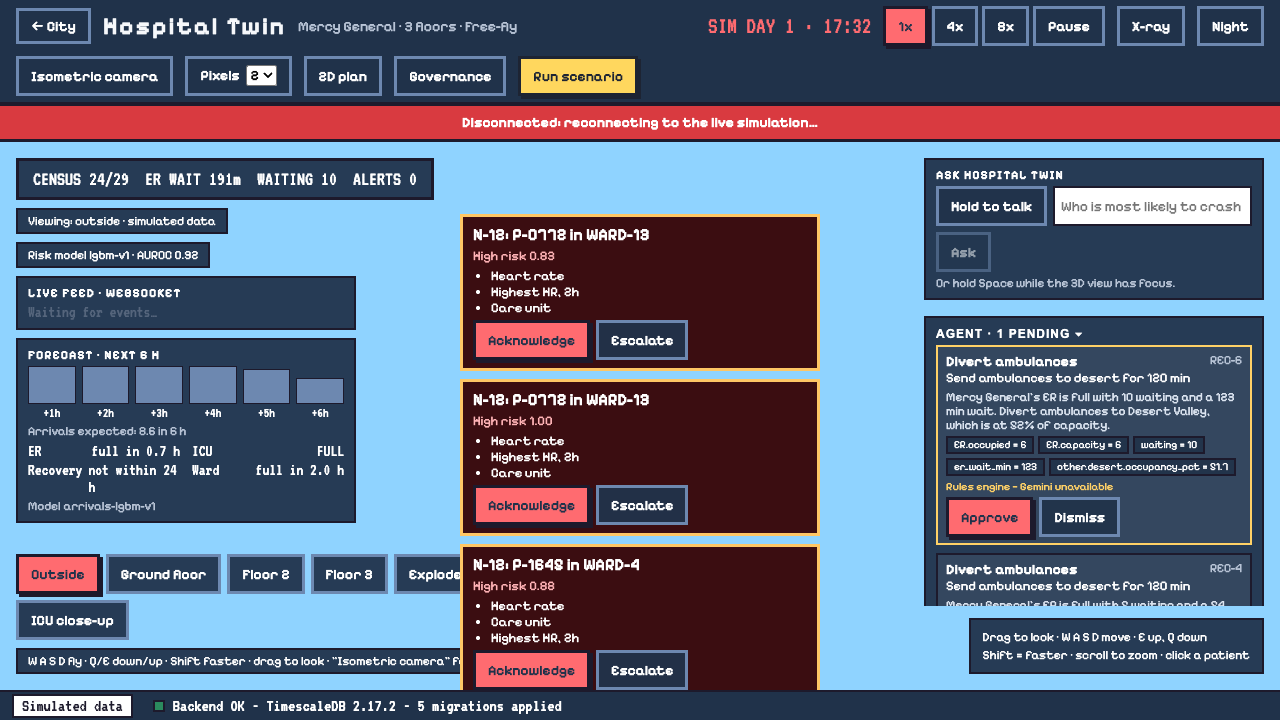
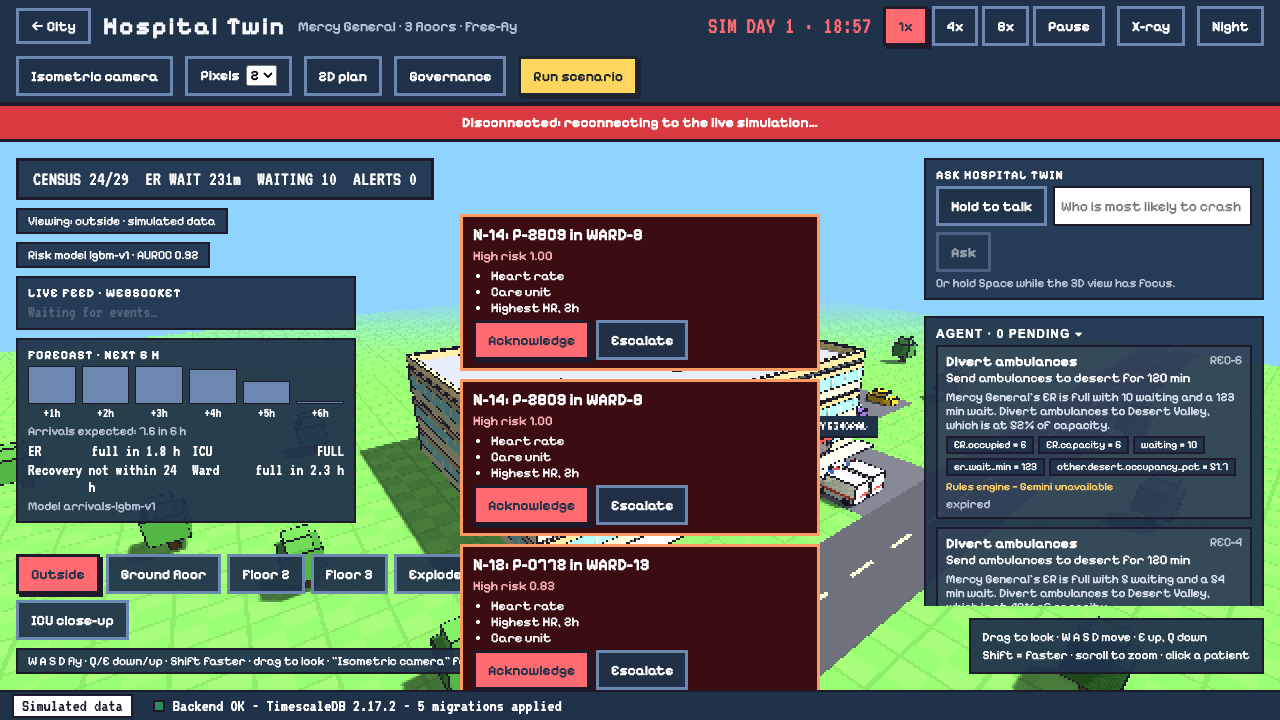
e2e: pick a patient no HUD panel covers; a pending nurse alert is ringed too

Changed region(s): [[0.0, 0.3972, 1.0, 0.9778], [0.375, 0.275, 0.625, 0.3667], [0.6562, 0.0306, 0.6875, 0.0611]]

diff --git a/frontend/tests/nurses.test.tsx b/frontend/tests/nurses.test.tsx
@@ -106,10 +106,20 @@ function within(testId: string, name: string): HTMLElement {
   return button;
 }
 
+function inspectorFetch(page: () => Response): ReturnType<typeof vi.fn> {
+  return vi.fn().mockImplementation((url: string) => {
+    if (url.includes('page-nurse')) return Promise.resolve(page());
+    if (url.includes('/vitals') || url.includes('/risk')) return Promise.resolve(new Response(JSON.stringify({ points: [] })));
+    return Promise.resolve(
+      new Response(JSON.stringify({ id: 'P-1', fhir_id: 'Patient/abc', age: 67, sex: 'male', conditions: ['A'], comorbidity_count: 1, hospital_id: 'mercy', location: null, encounter: null, vitals: null, risk: null })),
+    );
+  });
+}
+
 describe('paging from the inspector', () => {
   const patient = loadSnapshot().entities.find((e) => e.kind === 'patient' && e.location.bed) as Entity;
   it('shows the responsible nurse and pages them', async () => {
-    const f = vi.fn().mockImplementation((url: string) => Promise.resolve(new Response(JSON.stringify(url.includes('page-nurse') ? alert({ reason: 'paged' }) : { points: [] }))));
+    const f = inspectorFetch(() => new Response(JSON.stringify(alert({ reason: 'paged' }))));
     vi.stubGlobal('fetch', f);
     render(<Inspector entity={{ ...patient, nurse_id: 'N-14' }} onFly={vi.fn()} />);
     expect(screen.getByTestId('inspector-nurse').textContent).toContain('Nurse N-14');
@@ -117,7 +127,7 @@ describe('paging from the inspector', () => {
     await waitFor(() => { expect(f.mock.calls.some((c) => String(c[0]) === `/api/patients/${patient.id}/page-nurse` && (c[1] as RequestInit).method === 'POST')).toBe(true); });
   });
   it('has no page button without an assigned nurse, and reports a refusal', async () => {
-    vi.stubGlobal('fetch', vi.fn().mockImplementation((url: string) => Promise.resolve(url.includes('page-nurse') ? new Response(JSON.stringify({ detail: 'No nurse is on duty in ICU' }), { status: 409 }) : new Response(JSON.stringify({ points: [] })))));
+    vi.stubGlobal('fetch', inspectorFetch(() => new Response(JSON.stringify({ detail: 'No nurse is on duty in ICU' }), { status: 409 })));
     render(<Inspector entity={{ ...patient, nurse_id: null }} onFly={vi.fn()} />);
     expect(screen.queryByTestId('page-nurse')).toBeNull();
     cleanup();

diff --git a/frontend/e2e/live.spec.ts b/frontend/e2e/live.spec.ts
@@ -104,14 +104,27 @@ test('5. clicking a patient in a bed opens the inspector with the same id as the
   const simNow = Date.parse(api.sim_time);
   const inBed = api.entities.filter((e) => e.kind === 'patient' && e.location.bed && !e.move && Date.parse(api.sim_time) >= simNow);
   expect(inBed.length).toBeGreaterThan(3);
-  const target = inBed.find((e) => e.location.bed === 'ICU-3') ?? inBed.find((e) => e.location.room === 'ICU') ?? inBed[0]!;
-  const preset = { 0: 'Ground floor', 1: 'Floor 2', 2: 'Floor 3' }[target.location.floor ?? 0] ?? 'Outside';
+  // ICU-3 first, then the other ICU beds, then any bed on that floor: the first one that no HUD panel is drawn over.
+  const ordered = [inBed.find((e) => e.location.bed === 'ICU-3'), ...inBed.filter((e) => e.location.room === 'ICU'), ...inBed].filter((e): e is (typeof inBed)[number] => e !== undefined);
+  const floor = ordered[0]?.location.floor ?? 0;
+  const preset = { 0: 'Ground floor', 1: 'Floor 2', 2: 'Floor 3' }[floor] ?? 'Outside';
   await page.getByRole('button', { name: preset }).click();
   await expect.poll(() => debug(page, (d) => d.view().floorY.length), { timeout: 5000 }).toBe(3);
   await page.waitForTimeout(1500);
-  const point = await page.evaluate((id) => (window as unknown as { __TWIN_DEBUG__: TwinDebug }).__TWIN_DEBUG__.screenPoint(id), target.id);
-  expect(point).not.toBeNull();
   const box = (await page.getByTestId('scene').boundingBox())!;
+  let target = ordered[0]!;
+  let point: { x: number; y: number } | null = null;
+  for (const c of ordered.filter((e) => e.location.floor === floor)) {
+    const p = await page.evaluate((id) => (window as unknown as { __TWIN_DEBUG__: TwinDebug }).__TWIN_DEBUG__.screenPoint(id), c.id);
+    if (!p) continue;
+    const free = await page.evaluate(([x, y]) => document.elementFromPoint(x ?? 0, y ?? 0)?.getAttribute('data-testid') === 'scene', [box.x + p.x, box.y + p.y]);
+    if (free) {
+      target = c;
+      point = p;
+      break;
+    }
+  }
+  expect(point, 'a patient that no HUD panel covers').not.toBeNull();
   await page.mouse.click(box.x + point!.x, box.y + point!.y);
   await expect(page.getByTestId('inspector-id')).toHaveText(target.id);
   expect(await debug(page, (d) => d.selected())).toBe(target.id);

diff --git a/frontend/e2e/voice.spec.ts b/frontend/e2e/voice.spec.ts
@@ -66,15 +66,15 @@ test('11. a typed question highlights the highest-risk ICU patient', async ({ pa
   await page.getByRole('button', { name: 'Fly to' }).first().click();
   await expect(page.getByTestId('inspector-id')).toHaveText(top?.id ?? '');
 
-  // Closing the answer clears the highlight.
+  // Closing the answer clears its highlight. (A nurse with a pending alert is ringed too, so only patients are checked.)
   await page.getByTestId('ask-answer').getByRole('button', { name: 'Close' }).click();
-  await expect.poll(() => debug(page, (d) => d.highlighted().ids)).toEqual([]);
+  await expect.poll(async () => (await debug(page, (d) => d.highlighted().ids)).filter((i) => i.startsWith('P-'))).toEqual([]);
 
   // A question outside the tools gets an honest "I can answer questions about ..." and highlights nothing.
   await page.getByTestId('ask-input').fill('tell me a joke');
   await page.getByTestId('ask-send').click();
   await expect(page.getByTestId('ask-answer-text')).toContainText('I can answer questions about');
-  expect(await debug(page, (d) => d.highlighted().ids)).toEqual([]);
+  expect((await debug(page, (d) => d.highlighted().ids)).filter((i) => i.startsWith('P-'))).toEqual([]);
 });
 
 test('12. federated training from the UI streams round progress, and the model switch changes the version in the inspector', async ({ page, request }) => {
